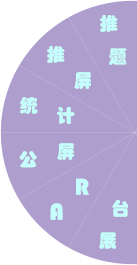
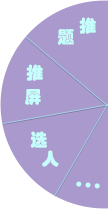
-

diff --git a/style/ball_new.css b/style/ball_new.css
@@ -6,8 +6,8 @@ body {
     font-family: "Microsoft YaHei", "Hiragino Sans GB", Arial, Helvetica;
     border-radius: 50%;
     font-size: 14px;
-    width: 137px;
-    height: 265px;
+    width: 108px;
+    height: 392px;
 }
 
 ::-webkit-scrollbar {
@@ -59,8 +59,8 @@ ul, li {
 
 #content {
     background: url("../images/icon_ballBg_right.png") no-repeat;
-    width: 100%;
-    height: 100%;
+    width: 108px;
+    height: 209px;
     background-size: cover;
     overflow: hidden;
     position: relative;
@@ -91,15 +91,14 @@ ul, li {
 }
 
 .pushQue {
-    width: 42px;
-    height: 60px;
+    width: 63px;
+    height: 43px;
     position: absolute;
     top: 8px;
     right: 4px;
-    transform: rotate(-21deg);
-    border-bottom-left-radius: 45%;
-    border-bottom-right-radius: 45%;
+    transform: rotate(-25deg);
     overflow: hidden;
+    border-radius: 40%;
 }
 
 .pushQue span {
@@ -115,64 +114,87 @@ ul, li {
 }
 
 .screenShot {
-    width: 66px;
-    height: 40px;
+    width: 63px;
+    height: 44px;
     position: absolute;
-    top: 46px;
+    top: 64px;
+    right: 48px;
+    transform: rotate(-70deg);
+    overflow: hidden;
+    border-radius: 35%;
+}
+.choice {
+    width: 63px;
+    height: 44px;
+    position: absolute;
+    top: 131px;
     right: 36px;
-    transform: rotate(-140deg);
-    border-bottom-left-radius: 45%;
+    transform: rotate(-128deg);
     overflow: hidden;
-    border-top-left-radius: 45%;
+    border-radius: 35%;
+}
+.more{
+    width: 42px;
+    height: 38px;
+    position: absolute;
+    top: 167px;
+    right: 0;
+    transform: rotate(-166deg);
+    overflow: hidden;
+    border-radius: 38%;
 }
 
+.moreCont{
+    position: absolute;
+    top: 194px;
+    right: 0;
+    background: url("../images/icon_ballSelect.png") no-repeat;
+    background-size: cover;
+    width: 55px;
+    height: 0;
+    -webkit-transition: all 0.5s ease;
+    transition: all 0.5s ease;
+}
+/*body:hover .moreCont{*/
+    /*height: 198px;*/
+/*}*/
+.moreCont > div{
+    font-size: 0;
+}
 .statistics {
-    width: 69px;
+    width: 55px;
     height: 40px;
     position: absolute;
-    top: 88px;
-    right: 57px;
-    transform: rotate(-163deg);
-    border-bottom-left-radius: 45%;
+    bottom: 4px;
+    right: 0;
     overflow: hidden;
-    border-top-left-radius: 45%;
 }
-
 
 .publicScreen {
-    width: 71px;
+    width: 55px;
     height: 40px;
     position: absolute;
-    top: 137px;
-    right: 57px;
-    transform: rotate(-199deg);
-    border-bottom-left-radius: 45%;
+    top: 19px;
+    right: 0;
     overflow: hidden;
-    border-top-left-radius: 45%;
 }
 
 .AR {
-    width: 69px;
+    width: 55px;
     height: 40px;
     position: absolute;
-    top: 178px;
-    right: 34px;
-    transform: rotate(-222deg);
-    border-bottom-left-radius: 45%;
+    top: 64px;
+    right: 0;
     overflow: hidden;
-    border-top-left-radius: 45%;
 }
 
 .booth {
-    width: 42px;
-    height: 63px;
+    width: 55px;
+    height: 40px;
     position: absolute;
-    top: 194px;
-    right: 5px;
-    transform: rotate(20deg);
+    top: 109px;
+    right: 0;
     overflow: hidden;
-    border-top-left-radius: 45%;
-    border-top-right-radius: 45%;
 }
 
 #clock {
@@ -189,7 +211,7 @@ ul, li {
 
 .centerText {
     position: absolute;
-    top: 90px;
+    top: 62px;
     right: 0;
     background: url("../images/icon_ballOver.png") no-repeat;
     background-size: cover;
@@ -200,7 +222,7 @@ ul, li {
 
 .overClass {
     position: absolute;
-    top: 90px;
+    top: 62px;
     right: 0;
     background: url("../images/icon_ballOver02.png") no-repeat;
     background-size: cover;
@@ -222,6 +244,7 @@ ul, li {
     animation: startClass 3s linear infinite;
     -webkit-animation: startClass 3s linear infinite;
 }
+
 
 @keyframes startClass {
     0% {

diff --git a/views/ball_new.html b/views/ball_new.html
@@ -7,10 +7,10 @@
     <link rel="stylesheet" href="../assets/iconfont/iconfont.css">
 </head>
 <body style="-webkit-app-region: drag">
-<div id="startClass" class="startClass" style="-webkit-app-region:no-drag">
+<div id="startClass"   style="display: none" class="startClass" style="-webkit-app-region:no-drag">
     <div class="shade"></div>
 </div>
-<div id="content"   style="display: none">
+<div id="content" >
     <!--overClass-->
     <div id="overClass" class="centerText"><i></i>
         <div id="clock" class="clock" style="-webkit-app-region:no-drag"></div>
@@ -19,11 +19,15 @@
     <div class="textCont pushCont">
         <div id="pushQue" class="pushQue" style="-webkit-app-region:no-drag"></div>
         <div id="screenShot" class="screenShot" style="-webkit-app-region:no-drag"></div>
-        <div id="statistics" class="statistics" style="-webkit-app-region:no-drag"></div>
-        <div id="publicScreen" class="publicScreen"  style="-webkit-app-region:no-drag">公屏</div>
-        <div id="AR" class="AR" style="-webkit-app-region:no-drag">AR</div>
-        <div id="booth" class="booth" style="-webkit-app-region:no-drag">展台</div>
+        <div id="choice" class="choice" style="-webkit-app-region:no-drag"></div>
+        <div id="more" class="more" style="-webkit-app-region:no-drag"></div>
     </div>
+</div>
+<div class="moreCont">
+    <div id="publicScreen" class="publicScreen"  style="-webkit-app-region:no-drag">公屏</div>
+    <div id="AR" class="AR" style="-webkit-app-region:no-drag">AR</div>
+    <div id="booth" class="booth" style="-webkit-app-region:no-drag">展台</div>
+    <div id="statistics" class="statistics" style="-webkit-app-region:no-drag"></div>
 </div>
 <script src="../public/jquery.min.js"></script>
 <script src="../public/pushSever_websocket.js"></script>

diff --git a/style/classDanmu.css b/style/classDanmu.css
@@ -136,8 +136,8 @@ li {
     height: 45px;
     background: url("../images/icon_closeImage.png") no-repeat;
     background-size: cover;
-    right: 10px;
-    top: 10px;
+    left: 10px;
+    bottom: 10px;
     position: absolute;
     cursor: pointer
 }
@@ -205,6 +205,10 @@ li {
 #userName {
     color: #fff;
     width: 100%;
-    text-align: center;
     font-size: 24px;
+    height: 5%;
+    display: flex;
+    align-items: center;
+    text-align: center;
+    justify-content: center;
 }
